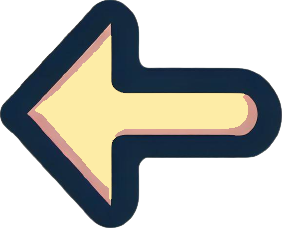
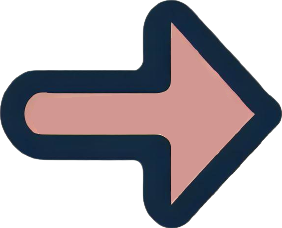
New Features + Fix Bug
- Theme selection buttons is now available.
- Fix various bugs.
- Changing levels' difficulty.

diff --git a/DoodleJump/elements/Doodle.cpp b/DoodleJump/elements/Doodle.cpp
@@ -37,12 +37,12 @@ void Doodle::setTex(std::string tex) {
 void Doodle::handle() {
 	const Uint8* state = SDL_GetKeyboardState(NULL);
 
-	if (state[SDL_SCANCODE_LEFT]) {
+	if (state[SDL_SCANCODE_LEFT] || state[SDL_SCANCODE_A]) {
 		setTex("left");
 		velo.x -= 1 + (velo.x > 0);
 	}
 
-	if (state[SDL_SCANCODE_RIGHT]) {
+	if (state[SDL_SCANCODE_RIGHT] || state[SDL_SCANCODE_D]) {
 		setTex("right");
 		velo.x += 1 + (velo.x < 0);
 	}
@@ -57,7 +57,8 @@ void Doodle::handle() {
 	if ((Game::event.type == SDL_MOUSEBUTTONDOWN
 	&& Game::event.button.button == SDL_BUTTON_LEFT)
 	|| (Game::event.type == SDL_KEYUP
-	&& Game::event.key.keysym.sym == SDLK_SPACE)) {
+	&& (Game::event.key.keysym.sym == SDLK_w
+	|| Game::event.key.keysym.sym == SDLK_UP))) {
 		if (Rand(0, 1)) {
 			Sound::play("doo-shoot1");
 		} else {
@@ -92,13 +93,15 @@ void Doodle::draw(int bright) {
 }
 
 void Doodle::update() {
-	double acc = 0.7, max_velo = -17.0;
-	     if (Game::Score() <  400)  { acc = 0.40; max_velo = -13.0; }
-	else if (Game::Score() <  850)  { acc = 0.45; max_velo = -13.7; }
-	else if (Game::Score() < 1350)  { acc = 0.50; max_velo = -14.5; }
-	else if (Game::Score() < 1900)  { acc = 0.55; max_velo = -15.2; }
-	else if (Game::Score() < 2500)  { acc = 0.60; max_velo = -15.8; }
-	else if (Game::Score() < 3150)  { acc = 0.65; max_velo = -16.5; }
+	double acc = 0.70, max_velo = -17.0;
+	     if (Game::Score() <  200)  { acc = 0.30; max_velo = -11.3; }
+	else if (Game::Score() <  430)  { acc = 0.35; max_velo = -12.2; }
+	else if (Game::Score() <  690)  { acc = 0.40; max_velo = -13.1; }
+	else if (Game::Score() < 1010)  { acc = 0.45; max_velo = -13.7; }
+	else if (Game::Score() < 1360)  { acc = 0.50; max_velo = -14.5; }
+	else if (Game::Score() < 1740)  { acc = 0.55; max_velo = -15.2; }
+	else if (Game::Score() < 2150)  { acc = 0.60; max_velo = -15.8; }
+	else if (Game::Score() < 2590)  { acc = 0.65; max_velo = -16.5; }
 
 	sprite->pos += velo; velo.y += acc;
 

diff --git a/DoodleJump/scenes/menu.cpp b/DoodleJump/scenes/menu.cpp
@@ -4,7 +4,6 @@
 void MainMenu::init() {
 	Music::play("title");
 	start->state = FREE;
-	leftTheme->state = FREE;
 
 	Global::doodle->velo = Pair(0, 0);
 	Global::doodle->setPos(35, 410);
@@ -16,20 +15,23 @@ void MainMenu::init() {
 	PadManager::add(40, 530, DEFAULT);
 }
 void MainMenu::handle() {
-	start->handle();
-	const Uint8* state = SDL_GetKeyboardState(NULL);
-
 	int lastTheme = Game::selectedTheme;
 
-	if (Game::event.type == SDL_KEYUP) {
-		switch (Game::event.key.keysym.sym) {
-		case SDLK_1: TexManager::loadTheme(0, 1); break;
-		case SDLK_2: TexManager::loadTheme(1, 1); break;
-		case SDLK_3: TexManager::loadTheme(2, 1); break;
-		case SDLK_4: TexManager::loadTheme(3, 1); break;
-		case SDLK_5: TexManager::loadTheme(4, 1); break;
+	if (Game::selectedTheme > 0) {
+		leftTheme->state = FREE;
+		leftTheme->handle();
+		if (leftTheme->state == CLICKED) {
+			TexManager::loadTheme(Game::selectedTheme-1, 1);
 		}
-	}
+	} else leftTheme->state = CLICKED;
+
+	if (Game::selectedTheme+1 < Game::theme.size()) {
+		rightTheme->state = FREE;
+		rightTheme->handle();
+		if (rightTheme->state == CLICKED) {
+			TexManager::loadTheme(Game::selectedTheme+1, 1);
+		}
+	} else rightTheme->state = CLICKED;
 
 	if (lastTheme != Game::selectedTheme) {
 		Jumpppp::bck->setTex("bck");
@@ -47,6 +49,8 @@ void MainMenu::handle() {
 		PadManager::reset();
 		PadManager::add(40, 530, DEFAULT);
 	}
+
+	start->handle();
 }
 void MainMenu::render(int bright) {
 	SDL_SetRenderDrawColor(Game::renderer, 255, 255, 255, 255);
@@ -56,6 +60,13 @@ void MainMenu::render(int bright) {
 	start->draw(bright);
 	PadManager::draw(bright);
 	Global::doodle->draw(bright);
+	
+	themeSel1->pos.x = floor(-641 * themeSel1->zoom) * Game::selectedTheme;
+	themeSel1->draw(bright);
+	themeSel2->draw(bright);
+
+	leftTheme->draw(bright);
+	rightTheme->draw(bright);
 
 	SDL_RenderPresent(Game::renderer);
 }

diff --git a/DoodleJump/scenes/loading.cpp b/DoodleJump/scenes/loading.cpp
@@ -14,6 +14,8 @@ Sprite* GameOver::bck;
 Button* MainMenu::start;
 Button* MainMenu::leftTheme;
 Button* MainMenu::rightTheme;
+Sprite* MainMenu::themeSel1;
+Sprite* MainMenu::themeSel2;
 
 void LoadingScene::run() {
 	try {
@@ -32,6 +34,8 @@ void LoadingScene::run() {
 
 		// loading textures
 		TexManager::add("menu", "asset/menu.png");
+		TexManager::add("themesel1", "asset/themesel1.png");
+		TexManager::add("themesel2", "asset/themesel2.png");
 
 		// buttons
 		for (std::string s : {"play", "left", "right"}) {
@@ -78,8 +82,18 @@ void LoadingScene::run() {
 		MainMenu::start->set_zoom(0.7f);
 
 		MainMenu::leftTheme = new Button("left-button");
-		MainMenu::leftTheme->set_pos(20, 200);
-		MainMenu::leftTheme->set_zoom(0.7f);
+		MainMenu::leftTheme->set_pos(17, 630);
+		MainMenu::leftTheme->set_zoom(0.15f);
+
+		MainMenu::rightTheme = new Button("right-button");
+		MainMenu::rightTheme->set_pos(390, 630);
+		MainMenu::rightTheme->set_zoom(0.15f);
+
+		MainMenu::themeSel1 = new Sprite("themesel1");
+		MainMenu::themeSel2 = new Sprite("themesel2");
+		MainMenu::themeSel1->zoom = MainMenu::themeSel2->zoom = MainMenu::menu->zoom;
+		MainMenu::themeSel1->pos = {  0, Game::Height() - MainMenu::themeSel1->h()    };
+		MainMenu::themeSel2->pos = { -1, Game::Height() - MainMenu::themeSel2->h()-17 };
 
 		Jumpppp::bck = new Sprite("bck");
 		Jumpppp::bck->fill_zoom();

diff --git a/DoodleJump/elements/Bullet.cpp b/DoodleJump/elements/Bullet.cpp
@@ -3,7 +3,6 @@
 #include "../components.h"
 
 struct Pellet {
-	int angle;
 	float vx, vy;
 	bool visible;
 	Sprite* sprite;
@@ -12,7 +11,7 @@ struct Pellet {
 	float& y() { return sprite->pos.y; }
 
 	Pellet(int x, int y, int angle) : visible(true) {
-		sprite = new Sprite(Game::getThemeIMG("bullet"));
+		sprite = new Sprite("pellet");
 		this->x() = x; vy = -22 * cos(angle*acos(-1)/180);
 		this->y() = y; vx =  22 * sin(angle*acos(-1)/180);
 		sprite->zoom = 0.6f;
@@ -29,7 +28,6 @@ void Bullet::update() {
 	for (Pellet *&bul : BulArray) {
 		bul->sprite->pos.x += bul->vx;
 		bul->sprite->pos.y += bul->vy;
-		if (++bul->angle == 360) bul->angle = 0;
 		bul->vy += 1.0f;
 	}
 }
@@ -40,7 +38,7 @@ void Bullet::draw() {
 		if (!bul->visible || bul->y() >= Game::Height()) {
 			delete bul;
 		} else {
-			bul->sprite->draw(255, Global::offset, bul->angle);
+			bul->sprite->draw(255, Global::offset);
 			newBulArray.push_back(bul);
 		}
 	}

diff --git a/DoodleJump/utils/TexManager.cpp b/DoodleJump/utils/TexManager.cpp
@@ -29,7 +29,7 @@ namespace TexManager {
 		if (reset) {
 			if (Game::selectedTheme == theme_id)
 				return;
-			for (int _ = 0; _ < 17; _++) {
+			for (int _ = 0; _ < 19; _++) {
 				delete collection.back();
 				collection.pop_back();
 			}
@@ -56,6 +56,17 @@ namespace TexManager {
 		TexManager::add("spring-1", theme + "tiles.png", Rect(808, 230, 34, 55));
 		TexManager::add("horz-pad", theme + "tiles.png", Rect(0, 34, 118, 34));
 		TexManager::add("vert-pad", theme + "tiles.png", Rect(0, 71, 118, 34));
+
+		SDL_Rect tmp = { 0, 0, 0, 0 };
+		switch (theme_id) {
+		case 0: tmp = Rect(01, 02, 22, 23); break;
+		case 1: tmp = Rect(67, 02, 27, 28); break;
+		case 2: tmp = Rect(99, 03, 27, 22); break;
+		case 3: tmp = Rect(03, 66, 30, 40); break;
+		case 4: tmp = Rect(99, 03, 27, 22); break;
+		}
+
+		TexManager::add("pellet", "asset/bullets.png", tmp);
 	}
 
 	void add(std::string title, std::string path, SDL_Rect src) {

diff --git a/DoodleJump/elements/PadManager.cpp b/DoodleJump/elements/PadManager.cpp
@@ -98,7 +98,7 @@ bool PadManager::add(int x, int y, PadType type) {
 	}
 
 	if (x == 1411) {
-		while (true) {
+		for (int tryNum = 1; tryNum <= 5; tryNum++) {
 			int new_x = type != HORIZONTAL
 			? Rand(10, Game::Width() - newPad->width - 10)
 			: Rand(80, Game::Width() - newPad->width - 80);
@@ -113,6 +113,7 @@ bool PadManager::add(int x, int y, PadType type) {
 			}
 
 			if (ok) { break; }
+			if (tryNum == 5) return false;
 		}
 	}
 

diff --git a/DoodleJump/scenes/jumpppp.cpp b/DoodleJump/scenes/jumpppp.cpp
@@ -4,7 +4,7 @@
 float newOffset;
 void fixOffset() {
 	newOffset = std::max({ newOffset, Global::offset, 300 - Global::doodle->sprite->pos.y });
-	Global::offset += (newOffset - Global::offset) * 0.07f;
+	Global::offset += (newOffset - Global::offset) * 0.05f;
 	
 	if (Game::Score() >= 3000) Global::offset += 0.5f;
 }

diff --git a/DoodleJump/scenes/scenes.h b/DoodleJump/scenes/scenes.h
@@ -12,8 +12,12 @@ class MainMenu {
 public:
 	static Sprite* menu;
 	static Button* start;
+
 	static Button* leftTheme;
 	static Button* rightTheme;
+	static Sprite* themeSel1;
+	static Sprite* themeSel2;
+
 	static void init();
 	static void handle();
 	static void update();
